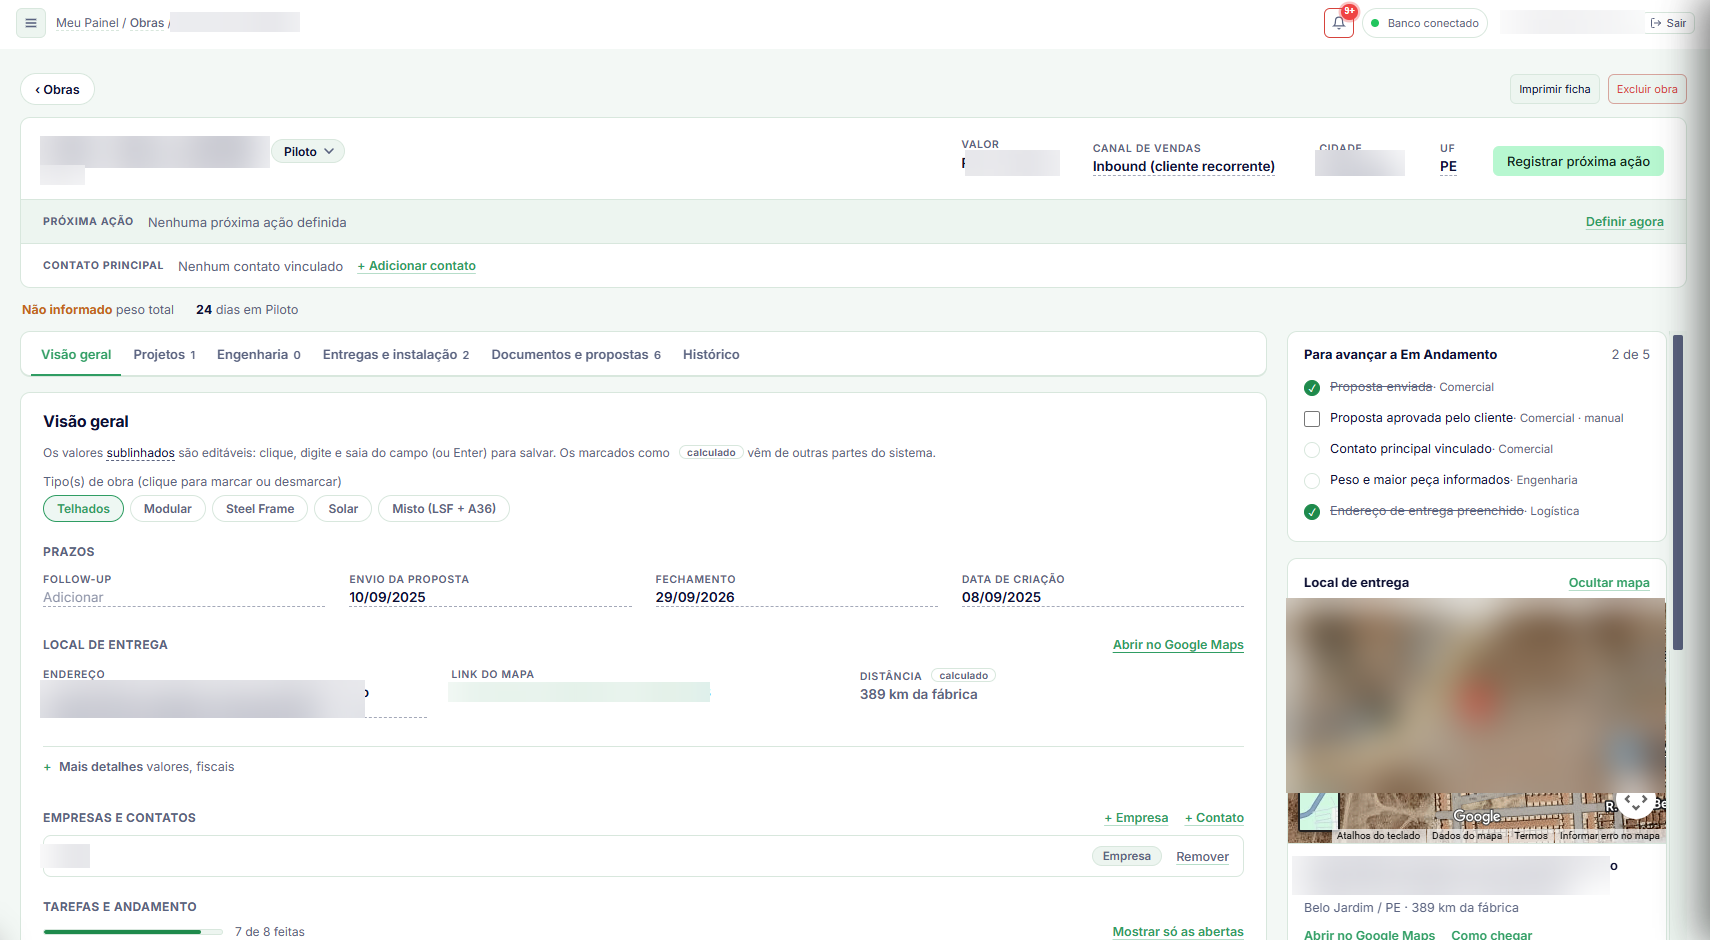
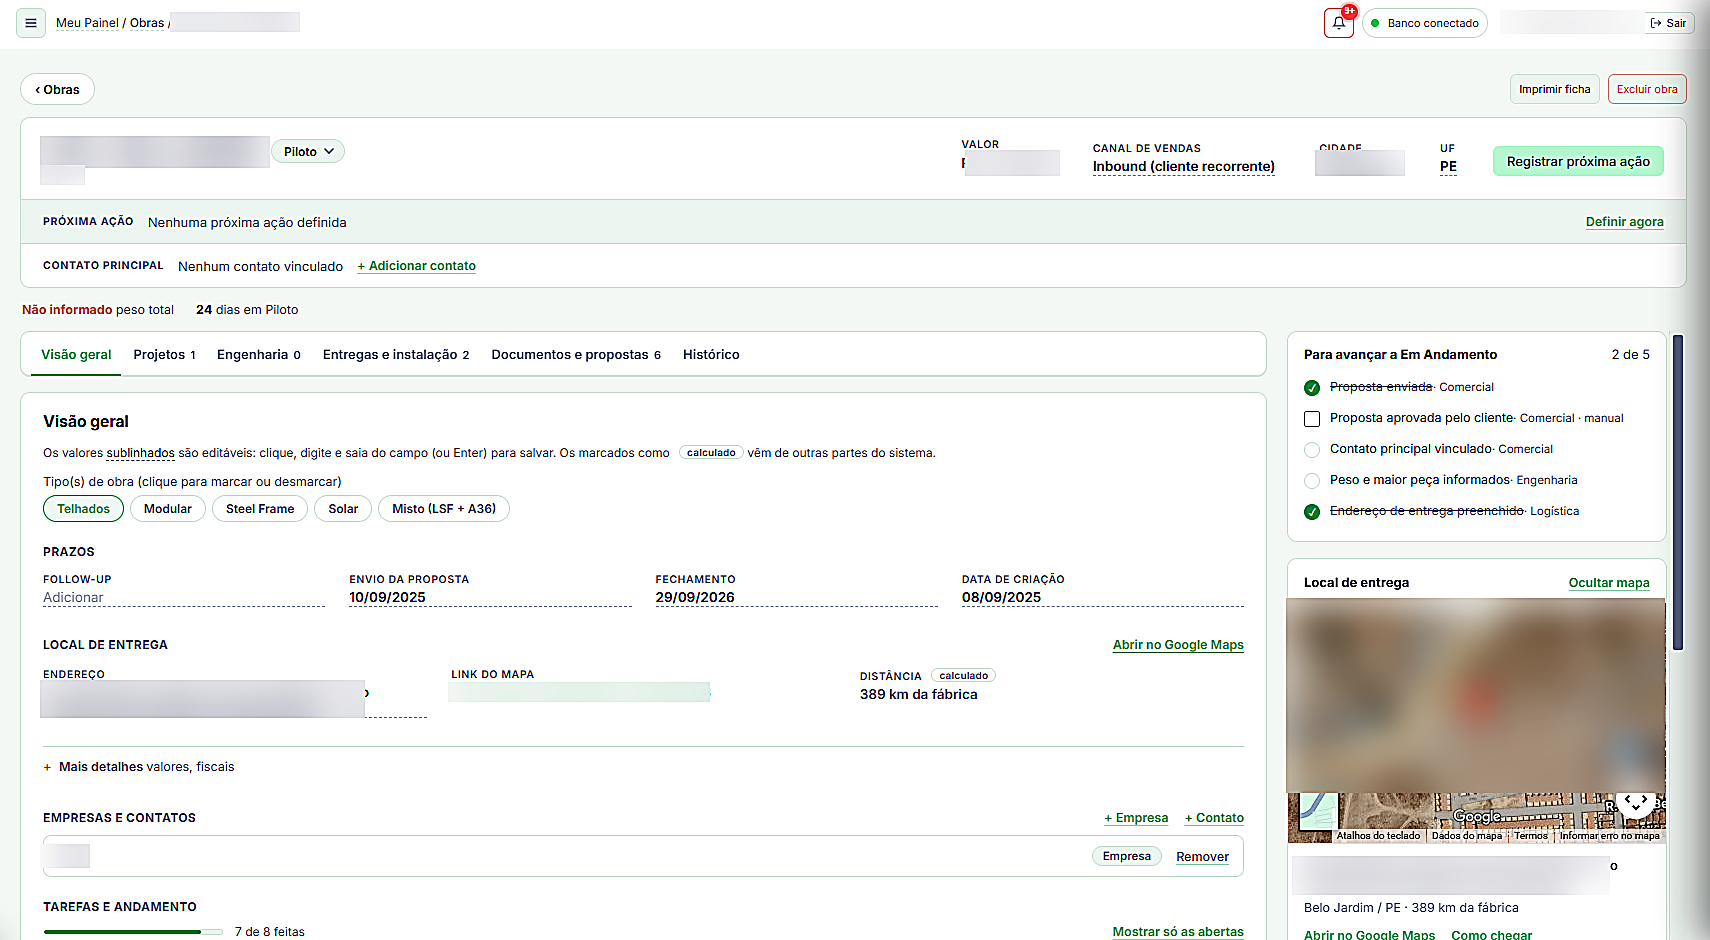
Melhora nitidez dos prints e destaca rastreio de frota/estimativa de entrega
- Aplica realce de nitidez (unsharp mask) + leve ajuste de contraste
  nas 5 telas do case de gestão de obras, pra ficarem mais legíveis no
  tamanho reduzido do mockup.
- Novo destaque no banco: rastreio da frota com rota calculada
  automaticamente e estimativa de entrega por trecho, visando o menor
  retrabalho possível na logística.
- Texto curto do card também passa a citar isso, não só o modal de
  detalhe.

Claude-Session: https://claude.ai/code/session_01Kkat9Arr9QPmwNV889KMTP

diff --git a/js/portfolio.js b/js/portfolio.js
@@ -112,7 +112,8 @@
       diffTitle: "//o diferencial",
       diffParas: [
         "Migrado de planilhas e ferramentas soltas para uma base única, sem depender de no-code. Cada módulo evolui isolado, com testes automatizados cobrindo o banco e a camada de JavaScript, sem precisar reescrever o resto do sistema conforme a operação cresce.",
-        "O orçamento sai em dois modos: estimativa rápida para responder o cliente na hora, ou cálculo detalhado por material, com geração automática da proposta comercial e do imposto interestadual. Do orçamento ao acompanhamento da frota de entrega no mapa, a mesma plataforma cobre comercial, engenharia, produção, logística e RH, com acesso restrito por convite.",
+        "O orçamento sai em dois modos: estimativa rápida para responder o cliente na hora, ou cálculo detalhado por material, com geração automática da proposta comercial e do imposto interestadual. Na logística, a rota da frota é calculada automaticamente, com estimativa de entrega por trecho, visando o menor retrabalho possível no planejamento.",
+        "A mesma plataforma cobre comercial, engenharia, produção, logística e RH, com acesso restrito por convite.",
       ],
     },
   };
